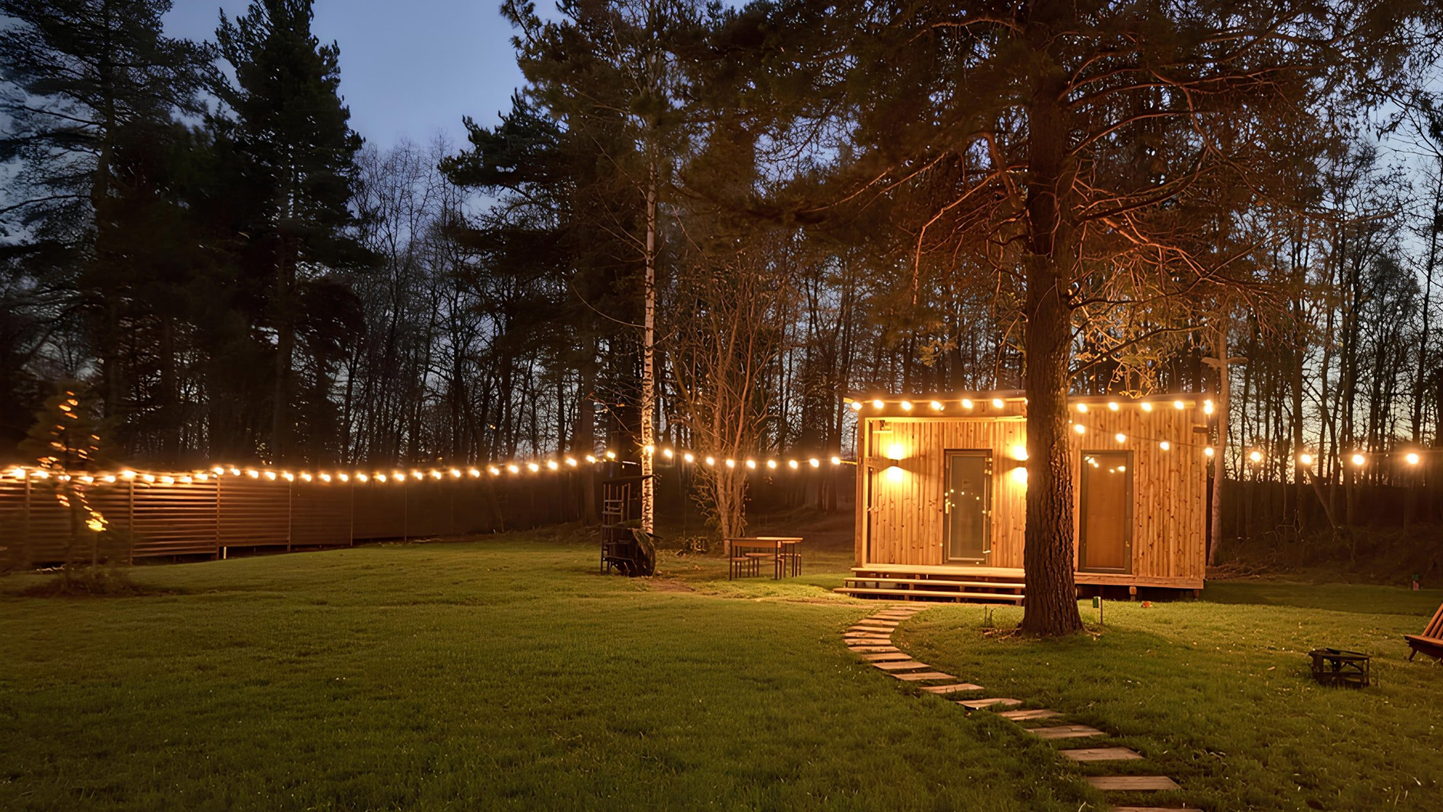
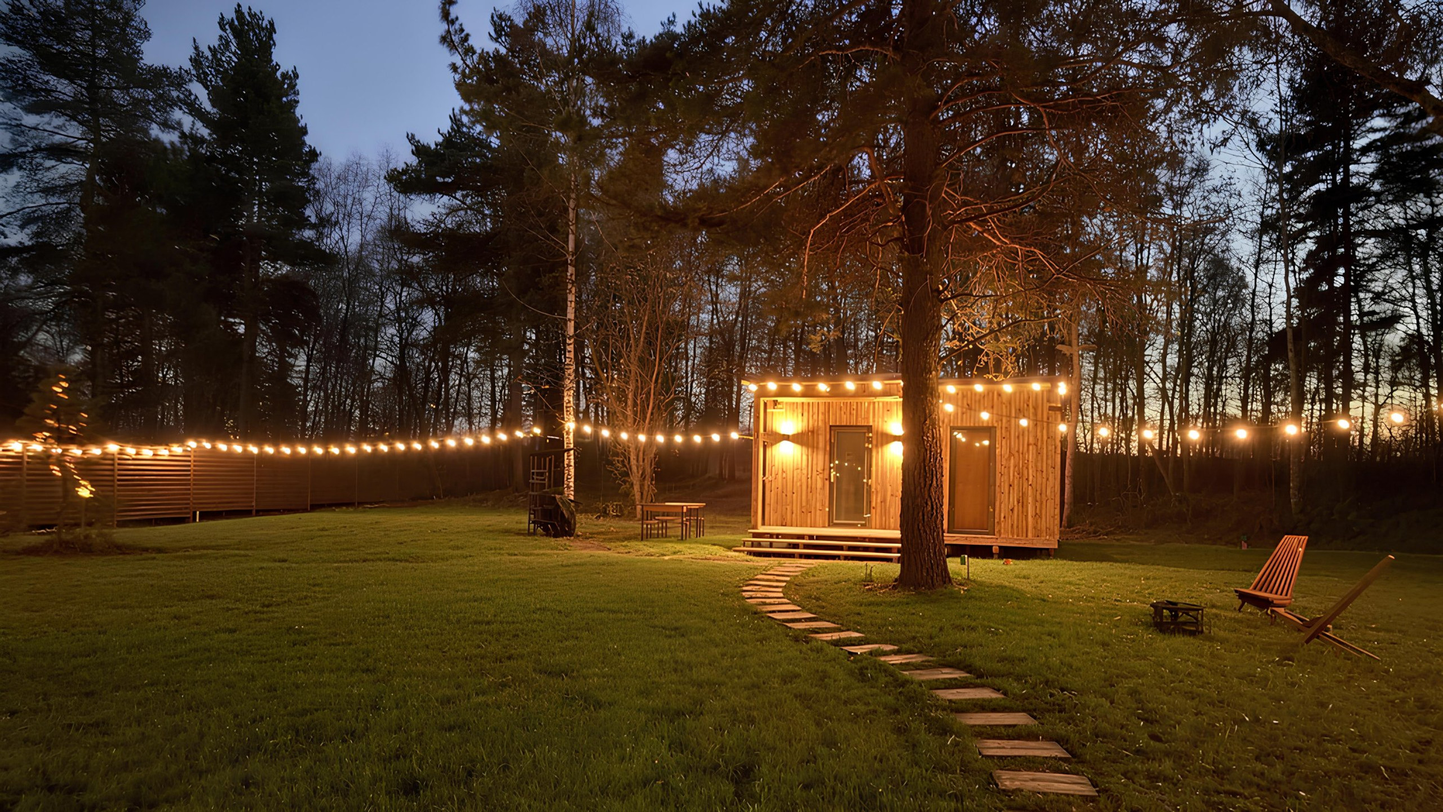
Главный кадр на всю ширину фото: виден стул и костровая чаша
Claude-Session: https://claude.ai/code/session_0125AYmhWDdMvkCNYeUoAhsY

diff --git a/index.html b/index.html
@@ -44,7 +44,7 @@
 </header>
 <main id="main">
 <section class="hero hfull" aria-label="Совиный Бор">
-  <div class="hero-media"><div class="hm-in"><svg class="scene scene-d" viewBox="0 0 1920 1080" preserveAspectRatio="xMidYMid slice" role="img" aria-label="Домик Совиный Бор вечером, горит гирлянда"><defs><filter id="off-d" color-interpolation-filters="sRGB"><feColorMatrix type="matrix" values="0.13 0.05 0.02 0 0  0.09 0.10 0.04 0 0  0.08 0.09 0.15 0 0  0 0 0 1 0"/></filter><filter id="soft-d" x="-50%" y="-50%" width="200%" height="200%"><feGaussianBlur stdDeviation="10.8"/></filter><mask id="m-d" maskUnits="userSpaceOnUse" x="0" y="0" width="1920" height="1080"><rect class="mask-all" width="1920" height="1080" fill="#fff"/><g filter="url(#soft-d)" fill="#000"><circle class="hole" style="--i:0" cx="0.0" cy="632.0" r="24"/><circle class="hole" style="--i:1" cx="56.0" cy="630.0" r="24"/><circle class="hole" style="--i:2" cx="70.0" cy="610.0" r="24"/><circle class="hole" style="--i:3" cx="89.0" cy="635.0" r="24"/><circle class="hole" style="--i:4" cx="118.0" cy="637.0" r="24"/><circle class="hole" style="--i:5" cx="146.0" cy="636.0" r="24"/><circle class="hole" style="--i:6" cx="173.0" cy="630.0" r="24"/><circle class="hole" style="--i:7" cx="199.0" cy="636.0" r="24"/><circle class="hole" style="--i:8" cx="226.0" cy="639.0" r="24"/><circle class="hole" style="--i:9" cx="249.0" cy="637.0" r="24"/><circle class="hole" style="--i:10" cx="271.0" cy="634.0" r="24"/><circle class="hole" style="--i:11" cx="291.0" cy="625.0" r="24"/><circle class="hole" style="--i:12" cx="314.0" cy="627.0" r="24"/><circle class="hole" style="--i:13" cx="338.0" cy="630.0" r="24"/><circle class="hole" style="--i:14" cx="361.0" cy="632.0" r="24"/><circle class="hole" style="--i:15" cx="384.0" cy="633.0" r="24"/><circle class="hole" style="--i:16" cx="409.0" cy="634.0" r="24"/><circle class="hole" style="--i:17" cx="434.0" cy="634.0" r="24"/><circle class="hole" style="--i:18" cx="458.0" cy="635.0" r="24"/><circle class="hole" style="--i:19" cx="483.0" cy="635.0" r="24"/><circle class="hole" style="--i:20" cx="508.0" cy="635.0" r="24"/><circle class="hole" style="--i:21" cx="533.0" cy="634.0" r="24"/><circle class="hole" style="--i:22" cx="557.0" cy="632.0" r="24"/><circle class="hole" style="--i:23" cx="583.0" cy="632.0" r="24"/><circle class="hole" style="--i:24" cx="608.0" cy="630.0" r="24"/><circle class="hole" style="--i:25" cx="633.0" cy="629.0" r="24"/><circle class="hole" style="--i:26" cx="660.0" cy="627.0" r="24"/><circle class="hole" style="--i:27" cx="682.7" cy="622.8" r="24"/><circle class="hole" style="--i:28" cx="705.4" cy="620.5" r="24"/><circle class="hole" style="--i:29" cx="762.0" cy="615.0" r="24"/><circle class="hole" style="--i:30" cx="786.0" cy="610.0" r="24"/><circle class="hole" style="--i:31" cx="813.0" cy="605.0" r="24"/><circle class="hole" style="--i:32" cx="864.0" cy="614.0" r="24"/><circle class="hole" style="--i:33" cx="865.0" cy="597.0" r="24"/><circle class="hole" style="--i:34" cx="889.0" cy="603.0" r="24"/><circle class="hole" style="--i:35" cx="916.0" cy="608.0" r="24"/><circle class="hole" style="--i:36" cx="945.0" cy="614.0" r="24"/><circle class="hole" style="--i:37" cx="971.0" cy="615.0" r="24"/><circle class="hole" style="--i:38" cx="1000.1" cy="617.1" r="24"/><circle class="hole" style="--i:39" cx="1027.4" cy="617.1" r="24"/><circle class="hole" style="--i:40" cx="1055.9" cy="617.1" r="24"/><circle class="hole" style="--i:41" cx="1083.2" cy="614.8" r="24"/><circle class="hole" style="--i:42" cx="1110.5" cy="611.4" r="24"/><circle class="hole" style="--i:43" cx="1140" cy="540" r="24"/><circle class="hole" style="--i:44" cx="1170" cy="538" r="24"/><circle class="hole" style="--i:45" cx="1205" cy="539" r="24"/><circle class="hole" style="--i:46" cx="1245" cy="539" r="24"/><circle class="hole" style="--i:47" cx="1286" cy="536" r="24"/><circle class="hole" style="--i:48" cx="1328" cy="536" r="24"/><circle class="hole" style="--i:49" cx="1440" cy="542" r="24"/><circle class="hole" style="--i:50" cx="1482" cy="540" r="24"/><circle class="hole" style="--i:51" cx="1526" cy="541" r="24"/><circle class="hole" style="--i:52" cx="1568" cy="539" r="24"/><circle class="hole" style="--i:53" cx="1607" cy="545" r="24"/><circle class="hole" style="--i:54" cx="1436" cy="570" r="24"/><circle class="hole" style="--i:55" cx="1491" cy="582" r="24"/><circle class="hole" style="--i:56" cx="1550" cy="593" r="24"/><circle class="hole" style="--i:57" cx="1608" cy="601" r="24"/><circle class="hole" style="--i:58" cx="1670" cy="607" r="24"/><circle class="hole" style="--i:59" cx="1738" cy="610" r="24"/><circle class="hole" style="--i:60" cx="1806" cy="610" r="24"/><circle class="hole" style="--i:61" cx="1878" cy="609" r="24"/><circle class="hole lamp" style="--i:65" cx="1192" cy="598" r="72"/><circle class="hole lamp" style="--i:66" cx="1357" cy="600" r="72"/><circle class="hole lamp" style="--i:67" cx="1195" cy="633" r="72"/><circle class="hole lamp" style="--i:68" cx="1358" cy="634" r="72"/></g></mask></defs><g class="kb"><image data-src="assets/img/hero-desktop.jpg" width="1920" height="1080" preserveAspectRatio="xMidYMid slice"/><image class="off" data-src="assets/img/hero-desktop.jpg" width="1920" height="1080" preserveAspectRatio="xMidYMid slice" filter="url(#off-d)" mask="url(#m-d)"/><g class="sparks"><circle class="spark" style="--d:3.04s;--o:0.45s" cx="0.0" cy="632.0" r="2.9"/><circle class="spark" style="--d:3.89s;--o:0.22s" cx="56.0" cy="630.0" r="2.9"/><circle class="spark" style="--d:3.59s;--o:1.10s" cx="70.0" cy="610.0" r="2.9"/><circle class="spark" style="--d:2.35s;--o:1.52s" cx="89.0" cy="635.0" r="2.9"/><circle class="spark" style="--d:2.30s;--o:1.30s" cx="118.0" cy="637.0" r="2.9"/><circle class="spark" style="--d:2.38s;--o:0.27s" cx="146.0" cy="636.0" r="2.9"/><circle class="spark" style="--d:3.30s;--o:2.48s" cx="173.0" cy="630.0" r="2.9"/><circle class="spark" style="--d:2.52s;--o:0.67s" cx="199.0" cy="636.0" r="2.9"/><circle class="spark" style="--d:3.83s;--o:2.84s" cx="226.0" cy="639.0" r="2.9"/><circle class="spark" style="--d:3.70s;--o:1.19s" cx="249.0" cy="637.0" r="2.9"/><circle class="spark" style="--d:4.74s;--o:0.14s" cx="271.0" cy="634.0" r="2.9"/><circle class="spark" style="--d:4.43s;--o:0.87s" cx="291.0" cy="625.0" r="2.9"/><circle class="spark" style="--d:2.58s;--o:0.35s" cx="314.0" cy="627.0" r="2.9"/><circle class="spark" style="--d:3.00s;--o:2.45s" cx="338.0" cy="630.0" r="2.9"/><circle class="spark" style="--d:2.67s;--o:1.74s" cx="361.0" cy="632.0" r="2.9"/><circle class="spark" style="--d:3.86s;--o:1.12s" cx="384.0" cy="633.0" r="2.9"/><circle class="spark" style="--d:3.62s;--o:0.19s" cx="409.0" cy="634.0" r="2.9"/><circle class="spark" style="--d:2.35s;--o:0.62s" cx="434.0" cy="634.0" r="2.9"/><circle class="spark" style="--d:3.97s;--o:1.28s" cx="458.0" cy="635.0" r="2.9"/><circle class="spark" style="--d:3.02s;--o:1.76s" cx="483.0" cy="635.0" r="2.9"/><circle class="spark" style="--d:3.38s;--o:0.90s" cx="508.0" cy="635.0" r="2.9"/><circle class="spark" style="--d:4.27s;--o:2.10s" cx="533.0" cy="634.0" r="2.9"/><circle class="spark" style="--d:2.83s;--o:1.72s" cx="557.0" cy="632.0" r="2.9"/><circle class="spark" style="--d:3.57s;--o:2.63s" cx="583.0" cy="632.0" r="2.9"/><circle class="spark" style="--d:4.10s;--o:0.86s" cx="608.0" cy="630.0" r="2.9"/><circle class="spark" style="--d:4.75s;--o:0.35s" cx="633.0" cy="629.0" r="2.9"/><circle class="spark" style="--d:3.29s;--o:2.27s" cx="660.0" cy="627.0" r="2.9"/><circle class="spark" style="--d:2.60s;--o:1.47s" cx="682.7" cy="622.8" r="2.9"/><circle class="spark" style="--d:2.30s;--o:2.00s" cx="705.4" cy="620.5" r="2.9"/><circle class="spark" style="--d:4.19s;--o:1.72s" cx="762.0" cy="615.0" r="2.9"/><circle class="spark" style="--d:4.48s;--o:0.94s" cx="786.0" cy="610.0" r="2.9"/><circle class="spark" style="--d:4.01s;--o:1.78s" cx="813.0" cy="605.0" r="2.9"/><circle class="spark" style="--d:3.71s;--o:1.37s" cx="864.0" cy="614.0" r="2.9"/><circle class="spark" style="--d:4.38s;--o:2.83s" cx="865.0" cy="597.0" r="2.9"/><circle class="spark" style="--d:3.43s;--o:1.99s" cx="889.0" cy="603.0" r="2.9"/><circle class="spark" style="--d:2.36s;--o:2.10s" cx="916.0" cy="608.0" r="2.9"/><circle class="spark" style="--d:3.88s;--o:2.98s" cx="945.0" cy="614.0" r="2.9"/><circle class="spark" style="--d:4.34s;--o:0.85s" cx="971.0" cy="615.0" r="2.9"/><circle class="spark" style="--d:3.20s;--o:2.01s" cx="1000.1" cy="617.1" r="2.9"/><circle class="spark" style="--d:2.26s;--o:1.39s" cx="1027.4" cy="617.1" r="2.9"/><circle class="spark" style="--d:2.64s;--o:0.35s" cx="1055.9" cy="617.1" r="2.9"/><circle class="spark" style="--d:2.35s;--o:2.30s" cx="1083.2" cy="614.8" r="2.9"/><circle class="spark" style="--d:2.54s;--o:0.74s" cx="1110.5" cy="611.4" r="2.9"/><circle class="spark" style="--d:3.22s;--o:2.61s" cx="1140" cy="540" r="2.9"/><circle class="spark" style="--d:2.41s;--o:1.35s" cx="1170" cy="538" r="2.9"/><circle class="spark" style="--d:3.63s;--o:2.65s" cx="1205" cy="539" r="2.9"/><circle class="spark" style="--d:4.33s;--o:2.59s" cx="1245" cy="539" r="2.9"/><circle class="spark" style="--d:2.92s;--o:1.25s" cx="1286" cy="536" r="2.9"/><circle class="spark" style="--d:3.13s;--o:2.65s" cx="1328" cy="536" r="2.9"/><circle class="spark" style="--d:4.69s;--o:0.45s" cx="1440" cy="542" r="2.9"/><circle class="spark" style="--d:2.66s;--o:0.70s" cx="1482" cy="540" r="2.9"/><circle class="spark" style="--d:2.81s;--o:1.45s" cx="1526" cy="541" r="2.9"/><circle class="spark" style="--d:3.73s;--o:0.79s" cx="1568" cy="539" r="2.9"/><circle class="spark" style="--d:2.21s;--o:1.26s" cx="1607" cy="545" r="2.9"/><circle class="spark" style="--d:3.16s;--o:1.70s" cx="1436" cy="570" r="2.9"/><circle class="spark" style="--d:4.68s;--o:2.07s" cx="1491" cy="582" r="2.9"/><circle class="spark" style="--d:3.54s;--o:1.85s" cx="1550" cy="593" r="2.9"/><circle class="spark" style="--d:3.96s;--o:0.16s" cx="1608" cy="601" r="2.9"/><circle class="spark" style="--d:4.54s;--o:2.34s" cx="1670" cy="607" r="2.9"/><circle class="spark" style="--d:4.47s;--o:2.39s" cx="1738" cy="610" r="2.9"/><circle class="spark" style="--d:3.22s;--o:1.20s" cx="1806" cy="610" r="2.9"/><circle class="spark" style="--d:2.47s;--o:1.90s" cx="1878" cy="609" r="2.9"/></g></g></svg><svg class="scene scene-m" viewBox="0 0 1080 1920" preserveAspectRatio="xMidYMid slice" role="img" aria-label="Домик Совиный Бор вечером, горит гирлянда"><defs><filter id="off-m" color-interpolation-filters="sRGB"><feColorMatrix type="matrix" values="0.13 0.05 0.02 0 0  0.09 0.10 0.04 0 0  0.08 0.09 0.15 0 0  0 0 0 1 0"/></filter><filter id="soft-m" x="-50%" y="-50%" width="200%" height="200%"><feGaussianBlur stdDeviation="8.1"/></filter><mask id="m-m" maskUnits="userSpaceOnUse" x="0" y="0" width="1080" height="1920"><rect class="mask-all" width="1080" height="1920" fill="#fff"/><g filter="url(#soft-m)" fill="#000"><circle class="hole" style="--i:0" cx="-360.0" cy="939.9" r="18"/><circle class="hole" style="--i:1" cx="-322.5" cy="938.4" r="18"/><circle class="hole" style="--i:2" cx="-313.5" cy="924.9" r="18"/><circle class="hole" style="--i:3" cx="-301.5" cy="941.4" r="18"/><circle class="hole" style="--i:4" cx="-282.8" cy="942.9" r="18"/><circle class="hole" style="--i:5" cx="-263.2" cy="942.2" r="18"/><circle class="hole" style="--i:6" cx="-246.0" cy="938.4" r="18"/><circle class="hole" style="--i:7" cx="-228.8" cy="942.2" r="18"/><circle class="hole" style="--i:8" cx="-211.5" cy="943.7" r="18"/><circle class="hole" style="--i:9" cx="-195.8" cy="942.9" r="18"/><circle class="hole" style="--i:10" cx="-181.5" cy="940.7" r="18"/><circle class="hole" style="--i:11" cx="-168.0" cy="935.4" r="18"/><circle class="hole" style="--i:12" cx="-153.0" cy="936.2" r="18"/><circle class="hole" style="--i:13" cx="-137.2" cy="937.7" r="18"/><circle class="hole" style="--i:14" cx="-122.2" cy="939.2" r="18"/><circle class="hole" style="--i:15" cx="-106.5" cy="940.7" r="18"/><circle class="hole" style="--i:16" cx="-90.8" cy="940.7" r="18"/><circle class="hole" style="--i:17" cx="-74.2" cy="940.7" r="18"/><circle class="hole" style="--i:18" cx="-58.5" cy="940.7" r="18"/><circle class="hole" style="--i:19" cx="-42.0" cy="941.4" r="18"/><circle class="hole" style="--i:20" cx="-24.7" cy="941.4" r="18"/><circle class="hole" style="--i:21" cx="-9.0" cy="940.7" r="18"/><circle class="hole" style="--i:22" cx="7.5" cy="939.2" r="18"/><circle class="hole" style="--i:23" cx="24.0" cy="939.2" r="18"/><circle class="hole" style="--i:24" cx="40.5" cy="937.7" r="18"/><circle class="hole" style="--i:25" cx="57.0" cy="936.9" r="18"/><circle class="hole" style="--i:26" cx="74.2" cy="935.4" r="18"/><circle class="hole" style="--i:27" cx="90.0" cy="933.2" r="18"/><circle class="hole" style="--i:28" cx="105.0" cy="931.7" r="18"/><circle class="hole" style="--i:29" cx="142.5" cy="927.9" r="18"/><circle class="hole" style="--i:30" cx="158.2" cy="924.9" r="18"/><circle class="hole" style="--i:31" cx="176.2" cy="921.9" r="18"/><circle class="hole" style="--i:32" cx="195.0" cy="921.2" r="18"/><circle class="hole" style="--i:33" cx="210.0" cy="915.9" r="18"/><circle class="hole" style="--i:34" cx="225.7" cy="919.7" r="18"/><circle class="hole" style="--i:35" cx="243.8" cy="923.4" r="18"/><circle class="hole" style="--i:36" cx="263.2" cy="927.2" r="18"/><circle class="hole" style="--i:37" cx="280.5" cy="928.7" r="18"/><circle class="hole" style="--i:38" cx="299.3" cy="929.4" r="18"/><circle class="hole" style="--i:39" cx="317.2" cy="929.4" r="18"/><circle class="hole" style="--i:40" cx="336.0" cy="929.4" r="18"/><circle class="hole" style="--i:41" cx="354.0" cy="927.9" r="18"/><circle class="hole" style="--i:42" cx="372.0" cy="925.7" r="18"/><circle class="hole" style="--i:43" cx="391.5" cy="878.4" r="18"/><circle class="hole" style="--i:44" cx="411.0" cy="876.9" r="18"/><circle class="hole" style="--i:45" cx="435.0" cy="877.7" r="18"/><circle class="hole" style="--i:46" cx="461.2" cy="877.7" r="18"/><circle class="hole" style="--i:47" cx="539.2" cy="873.9" r="18"/><circle class="hole" style="--i:48" cx="588.8" cy="879.2" r="18"/><circle class="hole" style="--i:49" cx="617.3" cy="879.2" r="18"/><circle class="hole" style="--i:50" cx="645.8" cy="879.2" r="18"/><circle class="hole" style="--i:51" cx="673.5" cy="878.4" r="18"/><circle class="hole" style="--i:52" cx="699.8" cy="919.7" r="18"/><circle class="hole" style="--i:53" cx="747.0" cy="918.2" r="18"/><circle class="hole" style="--i:54" cx="794.2" cy="916.7" r="18"/><circle class="hole" style="--i:55" cx="841.5" cy="915.2" r="18"/><circle class="hole" style="--i:56" cx="888.8" cy="913.7" r="18"/><circle class="hole" style="--i:57" cx="936.0" cy="912.2" r="18"/><circle class="hole" style="--i:58" cx="983.2" cy="910.7" r="18"/><circle class="hole" style="--i:59" cx="1030.5" cy="909.2" r="18"/><circle class="hole" style="--i:60" cx="1077.8" cy="907.7" r="18"/><circle class="hole lamp" style="--i:64" cx="426.0" cy="916.7" r="54"/><circle class="hole lamp" style="--i:65" cx="534.0" cy="916.7" r="54"/></g></mask></defs><g class="kb"><image data-src="assets/img/hero-mobile.jpg" width="1080" height="1920" preserveAspectRatio="xMidYMid slice"/><image class="off" data-src="assets/img/hero-mobile.jpg" width="1080" height="1920" preserveAspectRatio="xMidYMid slice" filter="url(#off-m)" mask="url(#m-m)"/><g class="sparks"><circle class="spark" style="--d:3.04s;--o:0.45s" cx="-360.0" cy="939.9" r="2.2"/><circle class="spark" style="--d:3.89s;--o:0.22s" cx="-322.5" cy="938.4" r="2.2"/><circle class="spark" style="--d:3.59s;--o:1.10s" cx="-313.5" cy="924.9" r="2.2"/><circle class="spark" style="--d:2.35s;--o:1.52s" cx="-301.5" cy="941.4" r="2.2"/><circle class="spark" style="--d:2.30s;--o:1.30s" cx="-282.8" cy="942.9" r="2.2"/><circle class="spark" style="--d:2.38s;--o:0.27s" cx="-263.2" cy="942.2" r="2.2"/><circle class="spark" style="--d:3.30s;--o:2.48s" cx="-246.0" cy="938.4" r="2.2"/><circle class="spark" style="--d:2.52s;--o:0.67s" cx="-228.8" cy="942.2" r="2.2"/><circle class="spark" style="--d:3.83s;--o:2.84s" cx="-211.5" cy="943.7" r="2.2"/><circle class="spark" style="--d:3.70s;--o:1.19s" cx="-195.8" cy="942.9" r="2.2"/><circle class="spark" style="--d:4.74s;--o:0.14s" cx="-181.5" cy="940.7" r="2.2"/><circle class="spark" style="--d:4.43s;--o:0.87s" cx="-168.0" cy="935.4" r="2.2"/><circle class="spark" style="--d:2.58s;--o:0.35s" cx="-153.0" cy="936.2" r="2.2"/><circle class="spark" style="--d:3.00s;--o:2.45s" cx="-137.2" cy="937.7" r="2.2"/><circle class="spark" style="--d:2.67s;--o:1.74s" cx="-122.2" cy="939.2" r="2.2"/><circle class="spark" style="--d:3.86s;--o:1.12s" cx="-106.5" cy="940.7" r="2.2"/><circle class="spark" style="--d:3.62s;--o:0.19s" cx="-90.8" cy="940.7" r="2.2"/><circle class="spark" style="--d:2.35s;--o:0.62s" cx="-74.2" cy="940.7" r="2.2"/><circle class="spark" style="--d:3.97s;--o:1.28s" cx="-58.5" cy="940.7" r="2.2"/><circle class="spark" style="--d:3.02s;--o:1.76s" cx="-42.0" cy="941.4" r="2.2"/><circle class="spark" style="--d:3.38s;--o:0.90s" cx="-24.7" cy="941.4" r="2.2"/><circle class="spark" style="--d:4.27s;--o:2.10s" cx="-9.0" cy="940.7" r="2.2"/><circle class="spark" style="--d:2.83s;--o:1.72s" cx="7.5" cy="939.2" r="2.2"/><circle class="spark" style="--d:3.57s;--o:2.63s" cx="24.0" cy="939.2" r="2.2"/><circle class="spark" style="--d:4.10s;--o:0.86s" cx="40.5" cy="937.7" r="2.2"/><circle class="spark" style="--d:4.75s;--o:0.35s" cx="57.0" cy="936.9" r="2.2"/><circle class="spark" style="--d:3.29s;--o:2.27s" cx="74.2" cy="935.4" r="2.2"/><circle class="spark" style="--d:2.60s;--o:1.47s" cx="90.0" cy="933.2" r="2.2"/><circle class="spark" style="--d:2.30s;--o:2.00s" cx="105.0" cy="931.7" r="2.2"/><circle class="spark" style="--d:4.19s;--o:1.72s" cx="142.5" cy="927.9" r="2.2"/><circle class="spark" style="--d:4.48s;--o:0.94s" cx="158.2" cy="924.9" r="2.2"/><circle class="spark" style="--d:4.01s;--o:1.78s" cx="176.2" cy="921.9" r="2.2"/><circle class="spark" style="--d:3.71s;--o:1.37s" cx="195.0" cy="921.2" r="2.2"/><circle class="spark" style="--d:4.38s;--o:2.83s" cx="210.0" cy="915.9" r="2.2"/><circle class="spark" style="--d:3.43s;--o:1.99s" cx="225.7" cy="919.7" r="2.2"/><circle class="spark" style="--d:2.36s;--o:2.10s" cx="243.8" cy="923.4" r="2.2"/><circle class="spark" style="--d:3.88s;--o:2.98s" cx="263.2" cy="927.2" r="2.2"/><circle class="spark" style="--d:4.34s;--o:0.85s" cx="280.5" cy="928.7" r="2.2"/><circle class="spark" style="--d:3.20s;--o:2.01s" cx="299.3" cy="929.4" r="2.2"/><circle class="spark" style="--d:2.26s;--o:1.39s" cx="317.2" cy="929.4" r="2.2"/><circle class="spark" style="--d:2.64s;--o:0.35s" cx="336.0" cy="929.4" r="2.2"/><circle class="spark" style="--d:2.35s;--o:2.30s" cx="354.0" cy="927.9" r="2.2"/><circle class="spark" style="--d:2.54s;--o:0.74s" cx="372.0" cy="925.7" r="2.2"/><circle class="spark" style="--d:3.22s;--o:2.61s" cx="391.5" cy="878.4" r="2.2"/><circle class="spark" style="--d:2.41s;--o:1.35s" cx="411.0" cy="876.9" r="2.2"/><circle class="spark" style="--d:3.63s;--o:2.65s" cx="435.0" cy="877.7" r="2.2"/><circle class="spark" style="--d:4.33s;--o:2.59s" cx="461.2" cy="877.7" r="2.2"/><circle class="spark" style="--d:2.92s;--o:1.25s" cx="539.2" cy="873.9" r="2.2"/><circle class="spark" style="--d:3.13s;--o:2.65s" cx="588.8" cy="879.2" r="2.2"/><circle class="spark" style="--d:4.69s;--o:0.45s" cx="617.3" cy="879.2" r="2.2"/><circle class="spark" style="--d:2.66s;--o:0.70s" cx="645.8" cy="879.2" r="2.2"/><circle class="spark" style="--d:2.81s;--o:1.45s" cx="673.5" cy="878.4" r="2.2"/><circle class="spark" style="--d:3.73s;--o:0.79s" cx="699.8" cy="919.7" r="2.2"/><circle class="spark" style="--d:2.21s;--o:1.26s" cx="747.0" cy="918.2" r="2.2"/><circle class="spark" style="--d:3.16s;--o:1.70s" cx="794.2" cy="916.7" r="2.2"/><circle class="spark" style="--d:4.68s;--o:2.07s" cx="841.5" cy="915.2" r="2.2"/><circle class="spark" style="--d:3.54s;--o:1.85s" cx="888.8" cy="913.7" r="2.2"/><circle class="spark" style="--d:3.96s;--o:0.16s" cx="936.0" cy="912.2" r="2.2"/><circle class="spark" style="--d:4.54s;--o:2.34s" cx="983.2" cy="910.7" r="2.2"/><circle class="spark" style="--d:4.47s;--o:2.39s" cx="1030.5" cy="909.2" r="2.2"/><circle class="spark" style="--d:3.22s;--o:1.20s" cx="1077.8" cy="907.7" r="2.2"/></g></g></svg><script>(function(){var m=window.matchMedia('(max-width: 767px)').matches;var s=document.querySelector(m?'.scene-m':'.scene-d');s.querySelectorAll('image').forEach(function(i){i.setAttribute('href',i.getAttribute('data-src'))});document.querySelector(m?'.scene-d':'.scene-m').remove();})();</script></div></div>
+  <div class="hero-media"><div class="hm-in"><svg class="scene scene-d" viewBox="0 0 1920 1080" preserveAspectRatio="xMidYMid slice" role="img" aria-label="Домик Совиный Бор вечером, горит гирлянда"><defs><filter id="off-d" color-interpolation-filters="sRGB"><feColorMatrix type="matrix" values="0.13 0.05 0.02 0 0  0.09 0.10 0.04 0 0  0.08 0.09 0.15 0 0  0 0 0 1 0"/></filter><filter id="soft-d" x="-50%" y="-50%" width="200%" height="200%"><feGaussianBlur stdDeviation="10.8"/></filter><mask id="m-d" maskUnits="userSpaceOnUse" x="0" y="0" width="1920" height="1080"><rect class="mask-all" width="1920" height="1080" fill="#fff"/><g filter="url(#soft-d)" fill="#000"><circle class="hole" style="--i:0" cx="0.0" cy="596.2" r="24"/><circle class="hole" style="--i:1" cx="49.2" cy="594.5" r="24"/><circle class="hole" style="--i:2" cx="61.5" cy="576.9" r="24"/><circle class="hole" style="--i:3" cx="78.2" cy="598.9" r="24"/><circle class="hole" style="--i:4" cx="103.7" cy="600.6" r="24"/><circle class="hole" style="--i:5" cx="128.3" cy="599.7" r="24"/><circle class="hole" style="--i:6" cx="152.0" cy="594.5" r="24"/><circle class="hole" style="--i:7" cx="174.9" cy="599.7" r="24"/><circle class="hole" style="--i:8" cx="198.6" cy="602.4" r="24"/><circle class="hole" style="--i:9" cx="218.8" cy="600.6" r="24"/><circle class="hole" style="--i:10" cx="238.2" cy="598.0" r="24"/><circle class="hole" style="--i:11" cx="255.8" cy="590.1" r="24"/><circle class="hole" style="--i:12" cx="276.0" cy="591.8" r="24"/><circle class="hole" style="--i:13" cx="297.1" cy="594.5" r="24"/><circle class="hole" style="--i:14" cx="317.3" cy="596.2" r="24"/><circle class="hole" style="--i:15" cx="337.5" cy="597.1" r="24"/><circle class="hole" style="--i:16" cx="359.5" cy="598.0" r="24"/><circle class="hole" style="--i:17" cx="381.4" cy="598.0" r="24"/><circle class="hole" style="--i:18" cx="402.5" cy="598.9" r="24"/><circle class="hole" style="--i:19" cx="424.5" cy="598.9" r="24"/><circle class="hole" style="--i:20" cx="446.5" cy="598.9" r="24"/><circle class="hole" style="--i:21" cx="468.4" cy="598.0" r="24"/><circle class="hole" style="--i:22" cx="489.5" cy="596.2" r="24"/><circle class="hole" style="--i:23" cx="512.4" cy="596.2" r="24"/><circle class="hole" style="--i:24" cx="534.4" cy="594.5" r="24"/><circle class="hole" style="--i:25" cx="556.3" cy="593.6" r="24"/><circle class="hole" style="--i:26" cx="580.1" cy="591.8" r="24"/><circle class="hole" style="--i:27" cx="600.0" cy="588.1" r="24"/><circle class="hole" style="--i:28" cx="620.0" cy="586.1" r="24"/><circle class="hole" style="--i:29" cx="669.7" cy="581.3" r="24"/><circle class="hole" style="--i:30" cx="690.8" cy="576.9" r="24"/><circle class="hole" style="--i:31" cx="714.5" cy="572.5" r="24"/><circle class="hole" style="--i:32" cx="759.4" cy="580.4" r="24"/><circle class="hole" style="--i:33" cx="760.2" cy="565.5" r="24"/><circle class="hole" style="--i:34" cx="781.3" cy="570.8" r="24"/><circle class="hole" style="--i:35" cx="805.1" cy="575.1" r="24"/><circle class="hole" style="--i:36" cx="830.5" cy="580.4" r="24"/><circle class="hole" style="--i:37" cx="853.4" cy="581.3" r="24"/><circle class="hole" style="--i:38" cx="879.0" cy="583.1" r="24"/><circle class="hole" style="--i:39" cx="903.0" cy="583.1" r="24"/><circle class="hole" style="--i:40" cx="928.0" cy="583.1" r="24"/><circle class="hole" style="--i:41" cx="952.0" cy="581.1" r="24"/><circle class="hole" style="--i:42" cx="976.0" cy="578.1" r="24"/><circle class="hole" style="--i:43" cx="1001.9" cy="515.4" r="24"/><circle class="hole" style="--i:44" cx="1028.3" cy="513.6" r="24"/><circle class="hole" style="--i:45" cx="1059.1" cy="514.5" r="24"/><circle class="hole" style="--i:46" cx="1094.2" cy="514.5" r="24"/><circle class="hole" style="--i:47" cx="1130.2" cy="511.9" r="24"/><circle class="hole" style="--i:48" cx="1167.2" cy="511.9" r="24"/><circle class="hole" style="--i:49" cx="1265.6" cy="517.2" r="24"/><circle class="hole" style="--i:50" cx="1302.5" cy="515.4" r="24"/><circle class="hole" style="--i:51" cx="1341.2" cy="516.3" r="24"/><circle class="hole" style="--i:52" cx="1378.1" cy="514.5" r="24"/><circle class="hole" style="--i:53" cx="1412.4" cy="519.8" r="24"/><circle class="hole" style="--i:54" cx="1262.1" cy="541.8" r="24"/><circle class="hole" style="--i:55" cx="1310.4" cy="552.3" r="24"/><circle class="hole" style="--i:56" cx="1362.3" cy="562.0" r="24"/><circle class="hole" style="--i:57" cx="1413.2" cy="569.0" r="24"/><circle class="hole" style="--i:58" cx="1467.7" cy="574.3" r="24"/><circle class="hole" style="--i:59" cx="1527.5" cy="576.9" r="24"/><circle class="hole" style="--i:60" cx="1587.3" cy="576.9" r="24"/><circle class="hole" style="--i:61" cx="1650.5" cy="576.0" r="24"/><circle class="hole" style="--i:62" cx="1716" cy="571" r="24"/><circle class="hole" style="--i:63" cx="1786" cy="563" r="24"/><circle class="hole" style="--i:64" cx="1857" cy="554" r="24"/><circle class="hole lamp" style="--i:68" cx="1047.6" cy="566.4" r="72"/><circle class="hole lamp" style="--i:69" cx="1192.6" cy="568.1" r="72"/><circle class="hole lamp" style="--i:70" cx="1050.3" cy="597.1" r="72"/><circle class="hole lamp" style="--i:71" cx="1193.5" cy="598.0" r="72"/></g></mask></defs><g class="kb"><image data-src="assets/img/hero-desktop.jpg" width="1920" height="1080" preserveAspectRatio="xMidYMid slice"/><image class="off" data-src="assets/img/hero-desktop.jpg" width="1920" height="1080" preserveAspectRatio="xMidYMid slice" filter="url(#off-d)" mask="url(#m-d)"/><g class="sparks"><circle class="spark" style="--d:3.04s;--o:0.45s" cx="0.0" cy="596.2" r="2.9"/><circle class="spark" style="--d:3.89s;--o:0.22s" cx="49.2" cy="594.5" r="2.9"/><circle class="spark" style="--d:3.59s;--o:1.10s" cx="61.5" cy="576.9" r="2.9"/><circle class="spark" style="--d:2.35s;--o:1.52s" cx="78.2" cy="598.9" r="2.9"/><circle class="spark" style="--d:2.30s;--o:1.30s" cx="103.7" cy="600.6" r="2.9"/><circle class="spark" style="--d:2.38s;--o:0.27s" cx="128.3" cy="599.7" r="2.9"/><circle class="spark" style="--d:3.30s;--o:2.48s" cx="152.0" cy="594.5" r="2.9"/><circle class="spark" style="--d:2.52s;--o:0.67s" cx="174.9" cy="599.7" r="2.9"/><circle class="spark" style="--d:3.83s;--o:2.84s" cx="198.6" cy="602.4" r="2.9"/><circle class="spark" style="--d:3.70s;--o:1.19s" cx="218.8" cy="600.6" r="2.9"/><circle class="spark" style="--d:4.74s;--o:0.14s" cx="238.2" cy="598.0" r="2.9"/><circle class="spark" style="--d:4.43s;--o:0.87s" cx="255.8" cy="590.1" r="2.9"/><circle class="spark" style="--d:2.58s;--o:0.35s" cx="276.0" cy="591.8" r="2.9"/><circle class="spark" style="--d:3.00s;--o:2.45s" cx="297.1" cy="594.5" r="2.9"/><circle class="spark" style="--d:2.67s;--o:1.74s" cx="317.3" cy="596.2" r="2.9"/><circle class="spark" style="--d:3.86s;--o:1.12s" cx="337.5" cy="597.1" r="2.9"/><circle class="spark" style="--d:3.62s;--o:0.19s" cx="359.5" cy="598.0" r="2.9"/><circle class="spark" style="--d:2.35s;--o:0.62s" cx="381.4" cy="598.0" r="2.9"/><circle class="spark" style="--d:3.97s;--o:1.28s" cx="402.5" cy="598.9" r="2.9"/><circle class="spark" style="--d:3.02s;--o:1.76s" cx="424.5" cy="598.9" r="2.9"/><circle class="spark" style="--d:3.38s;--o:0.90s" cx="446.5" cy="598.9" r="2.9"/><circle class="spark" style="--d:4.27s;--o:2.10s" cx="468.4" cy="598.0" r="2.9"/><circle class="spark" style="--d:2.83s;--o:1.72s" cx="489.5" cy="596.2" r="2.9"/><circle class="spark" style="--d:3.57s;--o:2.63s" cx="512.4" cy="596.2" r="2.9"/><circle class="spark" style="--d:4.10s;--o:0.86s" cx="534.4" cy="594.5" r="2.9"/><circle class="spark" style="--d:4.75s;--o:0.35s" cx="556.3" cy="593.6" r="2.9"/><circle class="spark" style="--d:3.29s;--o:2.27s" cx="580.1" cy="591.8" r="2.9"/><circle class="spark" style="--d:2.60s;--o:1.47s" cx="600.0" cy="588.1" r="2.9"/><circle class="spark" style="--d:2.30s;--o:2.00s" cx="620.0" cy="586.1" r="2.9"/><circle class="spark" style="--d:4.19s;--o:1.72s" cx="669.7" cy="581.3" r="2.9"/><circle class="spark" style="--d:4.48s;--o:0.94s" cx="690.8" cy="576.9" r="2.9"/><circle class="spark" style="--d:4.01s;--o:1.78s" cx="714.5" cy="572.5" r="2.9"/><circle class="spark" style="--d:3.71s;--o:1.37s" cx="759.4" cy="580.4" r="2.9"/><circle class="spark" style="--d:4.38s;--o:2.83s" cx="760.2" cy="565.5" r="2.9"/><circle class="spark" style="--d:3.43s;--o:1.99s" cx="781.3" cy="570.8" r="2.9"/><circle class="spark" style="--d:2.36s;--o:2.10s" cx="805.1" cy="575.1" r="2.9"/><circle class="spark" style="--d:3.88s;--o:2.98s" cx="830.5" cy="580.4" r="2.9"/><circle class="spark" style="--d:4.34s;--o:0.85s" cx="853.4" cy="581.3" r="2.9"/><circle class="spark" style="--d:3.20s;--o:2.01s" cx="879.0" cy="583.1" r="2.9"/><circle class="spark" style="--d:2.26s;--o:1.39s" cx="903.0" cy="583.1" r="2.9"/><circle class="spark" style="--d:2.64s;--o:0.35s" cx="928.0" cy="583.1" r="2.9"/><circle class="spark" style="--d:2.35s;--o:2.30s" cx="952.0" cy="581.1" r="2.9"/><circle class="spark" style="--d:2.54s;--o:0.74s" cx="976.0" cy="578.1" r="2.9"/><circle class="spark" style="--d:3.22s;--o:2.61s" cx="1001.9" cy="515.4" r="2.9"/><circle class="spark" style="--d:2.41s;--o:1.35s" cx="1028.3" cy="513.6" r="2.9"/><circle class="spark" style="--d:3.63s;--o:2.65s" cx="1059.1" cy="514.5" r="2.9"/><circle class="spark" style="--d:4.33s;--o:2.59s" cx="1094.2" cy="514.5" r="2.9"/><circle class="spark" style="--d:2.92s;--o:1.25s" cx="1130.2" cy="511.9" r="2.9"/><circle class="spark" style="--d:3.13s;--o:2.65s" cx="1167.2" cy="511.9" r="2.9"/><circle class="spark" style="--d:4.69s;--o:0.45s" cx="1265.6" cy="517.2" r="2.9"/><circle class="spark" style="--d:2.66s;--o:0.70s" cx="1302.5" cy="515.4" r="2.9"/><circle class="spark" style="--d:2.81s;--o:1.45s" cx="1341.2" cy="516.3" r="2.9"/><circle class="spark" style="--d:3.73s;--o:0.79s" cx="1378.1" cy="514.5" r="2.9"/><circle class="spark" style="--d:2.21s;--o:1.26s" cx="1412.4" cy="519.8" r="2.9"/><circle class="spark" style="--d:3.16s;--o:1.70s" cx="1262.1" cy="541.8" r="2.9"/><circle class="spark" style="--d:4.68s;--o:2.07s" cx="1310.4" cy="552.3" r="2.9"/><circle class="spark" style="--d:3.54s;--o:1.85s" cx="1362.3" cy="562.0" r="2.9"/><circle class="spark" style="--d:3.96s;--o:0.16s" cx="1413.2" cy="569.0" r="2.9"/><circle class="spark" style="--d:4.54s;--o:2.34s" cx="1467.7" cy="574.3" r="2.9"/><circle class="spark" style="--d:4.47s;--o:2.39s" cx="1527.5" cy="576.9" r="2.9"/><circle class="spark" style="--d:3.22s;--o:1.20s" cx="1587.3" cy="576.9" r="2.9"/><circle class="spark" style="--d:2.47s;--o:1.90s" cx="1650.5" cy="576.0" r="2.9"/><circle class="spark" style="--d:2.36s;--o:0.20s" cx="1716" cy="571" r="2.9"/><circle class="spark" style="--d:2.74s;--o:0.49s" cx="1786" cy="563" r="2.9"/><circle class="spark" style="--d:3.08s;--o:0.16s" cx="1857" cy="554" r="2.9"/></g></g></svg><svg class="scene scene-m" viewBox="0 0 1080 1920" preserveAspectRatio="xMidYMid slice" role="img" aria-label="Домик Совиный Бор вечером, горит гирлянда"><defs><filter id="off-m" color-interpolation-filters="sRGB"><feColorMatrix type="matrix" values="0.13 0.05 0.02 0 0  0.09 0.10 0.04 0 0  0.08 0.09 0.15 0 0  0 0 0 1 0"/></filter><filter id="soft-m" x="-50%" y="-50%" width="200%" height="200%"><feGaussianBlur stdDeviation="8.1"/></filter><mask id="m-m" maskUnits="userSpaceOnUse" x="0" y="0" width="1080" height="1920"><rect class="mask-all" width="1080" height="1920" fill="#fff"/><g filter="url(#soft-m)" fill="#000"><circle class="hole" style="--i:0" cx="-360.0" cy="939.9" r="18"/><circle class="hole" style="--i:1" cx="-322.5" cy="938.4" r="18"/><circle class="hole" style="--i:2" cx="-313.5" cy="924.9" r="18"/><circle class="hole" style="--i:3" cx="-301.5" cy="941.4" r="18"/><circle class="hole" style="--i:4" cx="-282.8" cy="942.9" r="18"/><circle class="hole" style="--i:5" cx="-263.2" cy="942.2" r="18"/><circle class="hole" style="--i:6" cx="-246.0" cy="938.4" r="18"/><circle class="hole" style="--i:7" cx="-228.8" cy="942.2" r="18"/><circle class="hole" style="--i:8" cx="-211.5" cy="943.7" r="18"/><circle class="hole" style="--i:9" cx="-195.8" cy="942.9" r="18"/><circle class="hole" style="--i:10" cx="-181.5" cy="940.7" r="18"/><circle class="hole" style="--i:11" cx="-168.0" cy="935.4" r="18"/><circle class="hole" style="--i:12" cx="-153.0" cy="936.2" r="18"/><circle class="hole" style="--i:13" cx="-137.2" cy="937.7" r="18"/><circle class="hole" style="--i:14" cx="-122.2" cy="939.2" r="18"/><circle class="hole" style="--i:15" cx="-106.5" cy="940.7" r="18"/><circle class="hole" style="--i:16" cx="-90.8" cy="940.7" r="18"/><circle class="hole" style="--i:17" cx="-74.2" cy="940.7" r="18"/><circle class="hole" style="--i:18" cx="-58.5" cy="940.7" r="18"/><circle class="hole" style="--i:19" cx="-42.0" cy="941.4" r="18"/><circle class="hole" style="--i:20" cx="-24.7" cy="941.4" r="18"/><circle class="hole" style="--i:21" cx="-9.0" cy="940.7" r="18"/><circle class="hole" style="--i:22" cx="7.5" cy="939.2" r="18"/><circle class="hole" style="--i:23" cx="24.0" cy="939.2" r="18"/><circle class="hole" style="--i:24" cx="40.5" cy="937.7" r="18"/><circle class="hole" style="--i:25" cx="57.0" cy="936.9" r="18"/><circle class="hole" style="--i:26" cx="74.2" cy="935.4" r="18"/><circle class="hole" style="--i:27" cx="90.0" cy="933.2" r="18"/><circle class="hole" style="--i:28" cx="105.0" cy="931.7" r="18"/><circle class="hole" style="--i:29" cx="142.5" cy="927.9" r="18"/><circle class="hole" style="--i:30" cx="158.2" cy="924.9" r="18"/><circle class="hole" style="--i:31" cx="176.2" cy="921.9" r="18"/><circle class="hole" style="--i:32" cx="195.0" cy="921.2" r="18"/><circle class="hole" style="--i:33" cx="210.0" cy="915.9" r="18"/><circle class="hole" style="--i:34" cx="225.7" cy="919.7" r="18"/><circle class="hole" style="--i:35" cx="243.8" cy="923.4" r="18"/><circle class="hole" style="--i:36" cx="263.2" cy="927.2" r="18"/><circle class="hole" style="--i:37" cx="280.5" cy="928.7" r="18"/><circle class="hole" style="--i:38" cx="299.3" cy="929.4" r="18"/><circle class="hole" style="--i:39" cx="317.2" cy="929.4" r="18"/><circle class="hole" style="--i:40" cx="336.0" cy="929.4" r="18"/><circle class="hole" style="--i:41" cx="354.0" cy="927.9" r="18"/><circle class="hole" style="--i:42" cx="372.0" cy="925.7" r="18"/><circle class="hole" style="--i:43" cx="391.5" cy="878.4" r="18"/><circle class="hole" style="--i:44" cx="411.0" cy="876.9" r="18"/><circle class="hole" style="--i:45" cx="435.0" cy="877.7" r="18"/><circle class="hole" style="--i:46" cx="461.2" cy="877.7" r="18"/><circle class="hole" style="--i:47" cx="539.2" cy="873.9" r="18"/><circle class="hole" style="--i:48" cx="588.8" cy="879.2" r="18"/><circle class="hole" style="--i:49" cx="617.3" cy="879.2" r="18"/><circle class="hole" style="--i:50" cx="645.8" cy="879.2" r="18"/><circle class="hole" style="--i:51" cx="673.5" cy="878.4" r="18"/><circle class="hole" style="--i:52" cx="699.8" cy="919.7" r="18"/><circle class="hole" style="--i:53" cx="747.0" cy="918.2" r="18"/><circle class="hole" style="--i:54" cx="794.2" cy="916.7" r="18"/><circle class="hole" style="--i:55" cx="841.5" cy="915.2" r="18"/><circle class="hole" style="--i:56" cx="888.8" cy="913.7" r="18"/><circle class="hole" style="--i:57" cx="936.0" cy="912.2" r="18"/><circle class="hole" style="--i:58" cx="983.2" cy="910.7" r="18"/><circle class="hole" style="--i:59" cx="1030.5" cy="909.2" r="18"/><circle class="hole" style="--i:60" cx="1077.8" cy="907.7" r="18"/><circle class="hole lamp" style="--i:64" cx="426.0" cy="916.7" r="54"/><circle class="hole lamp" style="--i:65" cx="534.0" cy="916.7" r="54"/></g></mask></defs><g class="kb"><image data-src="assets/img/hero-mobile.jpg" width="1080" height="1920" preserveAspectRatio="xMidYMid slice"/><image class="off" data-src="assets/img/hero-mobile.jpg" width="1080" height="1920" preserveAspectRatio="xMidYMid slice" filter="url(#off-m)" mask="url(#m-m)"/><g class="sparks"><circle class="spark" style="--d:3.04s;--o:0.45s" cx="-360.0" cy="939.9" r="2.2"/><circle class="spark" style="--d:3.89s;--o:0.22s" cx="-322.5" cy="938.4" r="2.2"/><circle class="spark" style="--d:3.59s;--o:1.10s" cx="-313.5" cy="924.9" r="2.2"/><circle class="spark" style="--d:2.35s;--o:1.52s" cx="-301.5" cy="941.4" r="2.2"/><circle class="spark" style="--d:2.30s;--o:1.30s" cx="-282.8" cy="942.9" r="2.2"/><circle class="spark" style="--d:2.38s;--o:0.27s" cx="-263.2" cy="942.2" r="2.2"/><circle class="spark" style="--d:3.30s;--o:2.48s" cx="-246.0" cy="938.4" r="2.2"/><circle class="spark" style="--d:2.52s;--o:0.67s" cx="-228.8" cy="942.2" r="2.2"/><circle class="spark" style="--d:3.83s;--o:2.84s" cx="-211.5" cy="943.7" r="2.2"/><circle class="spark" style="--d:3.70s;--o:1.19s" cx="-195.8" cy="942.9" r="2.2"/><circle class="spark" style="--d:4.74s;--o:0.14s" cx="-181.5" cy="940.7" r="2.2"/><circle class="spark" style="--d:4.43s;--o:0.87s" cx="-168.0" cy="935.4" r="2.2"/><circle class="spark" style="--d:2.58s;--o:0.35s" cx="-153.0" cy="936.2" r="2.2"/><circle class="spark" style="--d:3.00s;--o:2.45s" cx="-137.2" cy="937.7" r="2.2"/><circle class="spark" style="--d:2.67s;--o:1.74s" cx="-122.2" cy="939.2" r="2.2"/><circle class="spark" style="--d:3.86s;--o:1.12s" cx="-106.5" cy="940.7" r="2.2"/><circle class="spark" style="--d:3.62s;--o:0.19s" cx="-90.8" cy="940.7" r="2.2"/><circle class="spark" style="--d:2.35s;--o:0.62s" cx="-74.2" cy="940.7" r="2.2"/><circle class="spark" style="--d:3.97s;--o:1.28s" cx="-58.5" cy="940.7" r="2.2"/><circle class="spark" style="--d:3.02s;--o:1.76s" cx="-42.0" cy="941.4" r="2.2"/><circle class="spark" style="--d:3.38s;--o:0.90s" cx="-24.7" cy="941.4" r="2.2"/><circle class="spark" style="--d:4.27s;--o:2.10s" cx="-9.0" cy="940.7" r="2.2"/><circle class="spark" style="--d:2.83s;--o:1.72s" cx="7.5" cy="939.2" r="2.2"/><circle class="spark" style="--d:3.57s;--o:2.63s" cx="24.0" cy="939.2" r="2.2"/><circle class="spark" style="--d:4.10s;--o:0.86s" cx="40.5" cy="937.7" r="2.2"/><circle class="spark" style="--d:4.75s;--o:0.35s" cx="57.0" cy="936.9" r="2.2"/><circle class="spark" style="--d:3.29s;--o:2.27s" cx="74.2" cy="935.4" r="2.2"/><circle class="spark" style="--d:2.60s;--o:1.47s" cx="90.0" cy="933.2" r="2.2"/><circle class="spark" style="--d:2.30s;--o:2.00s" cx="105.0" cy="931.7" r="2.2"/><circle class="spark" style="--d:4.19s;--o:1.72s" cx="142.5" cy="927.9" r="2.2"/><circle class="spark" style="--d:4.48s;--o:0.94s" cx="158.2" cy="924.9" r="2.2"/><circle class="spark" style="--d:4.01s;--o:1.78s" cx="176.2" cy="921.9" r="2.2"/><circle class="spark" style="--d:3.71s;--o:1.37s" cx="195.0" cy="921.2" r="2.2"/><circle class="spark" style="--d:4.38s;--o:2.83s" cx="210.0" cy="915.9" r="2.2"/><circle class="spark" style="--d:3.43s;--o:1.99s" cx="225.7" cy="919.7" r="2.2"/><circle class="spark" style="--d:2.36s;--o:2.10s" cx="243.8" cy="923.4" r="2.2"/><circle class="spark" style="--d:3.88s;--o:2.98s" cx="263.2" cy="927.2" r="2.2"/><circle class="spark" style="--d:4.34s;--o:0.85s" cx="280.5" cy="928.7" r="2.2"/><circle class="spark" style="--d:3.20s;--o:2.01s" cx="299.3" cy="929.4" r="2.2"/><circle class="spark" style="--d:2.26s;--o:1.39s" cx="317.2" cy="929.4" r="2.2"/><circle class="spark" style="--d:2.64s;--o:0.35s" cx="336.0" cy="929.4" r="2.2"/><circle class="spark" style="--d:2.35s;--o:2.30s" cx="354.0" cy="927.9" r="2.2"/><circle class="spark" style="--d:2.54s;--o:0.74s" cx="372.0" cy="925.7" r="2.2"/><circle class="spark" style="--d:3.22s;--o:2.61s" cx="391.5" cy="878.4" r="2.2"/><circle class="spark" style="--d:2.41s;--o:1.35s" cx="411.0" cy="876.9" r="2.2"/><circle class="spark" style="--d:3.63s;--o:2.65s" cx="435.0" cy="877.7" r="2.2"/><circle class="spark" style="--d:4.33s;--o:2.59s" cx="461.2" cy="877.7" r="2.2"/><circle class="spark" style="--d:2.92s;--o:1.25s" cx="539.2" cy="873.9" r="2.2"/><circle class="spark" style="--d:3.13s;--o:2.65s" cx="588.8" cy="879.2" r="2.2"/><circle class="spark" style="--d:4.69s;--o:0.45s" cx="617.3" cy="879.2" r="2.2"/><circle class="spark" style="--d:2.66s;--o:0.70s" cx="645.8" cy="879.2" r="2.2"/><circle class="spark" style="--d:2.81s;--o:1.45s" cx="673.5" cy="878.4" r="2.2"/><circle class="spark" style="--d:3.73s;--o:0.79s" cx="699.8" cy="919.7" r="2.2"/><circle class="spark" style="--d:2.21s;--o:1.26s" cx="747.0" cy="918.2" r="2.2"/><circle class="spark" style="--d:3.16s;--o:1.70s" cx="794.2" cy="916.7" r="2.2"/><circle class="spark" style="--d:4.68s;--o:2.07s" cx="841.5" cy="915.2" r="2.2"/><circle class="spark" style="--d:3.54s;--o:1.85s" cx="888.8" cy="913.7" r="2.2"/><circle class="spark" style="--d:3.96s;--o:0.16s" cx="936.0" cy="912.2" r="2.2"/><circle class="spark" style="--d:4.54s;--o:2.34s" cx="983.2" cy="910.7" r="2.2"/><circle class="spark" style="--d:4.47s;--o:2.39s" cx="1030.5" cy="909.2" r="2.2"/><circle class="spark" style="--d:3.22s;--o:1.20s" cx="1077.8" cy="907.7" r="2.2"/></g></g></svg><script>(function(){var m=window.matchMedia('(max-width: 767px)').matches;var s=document.querySelector(m?'.scene-m':'.scene-d');s.querySelectorAll('image').forEach(function(i){i.setAttribute('href',i.getAttribute('data-src'))});document.querySelector(m?'.scene-d':'.scene-m').remove();})();</script></div></div>
   <div class="wrap hero-inner">
     <div>
       <span class="eyebrow">Глэмпинг у озера в Подмосковье</span>
